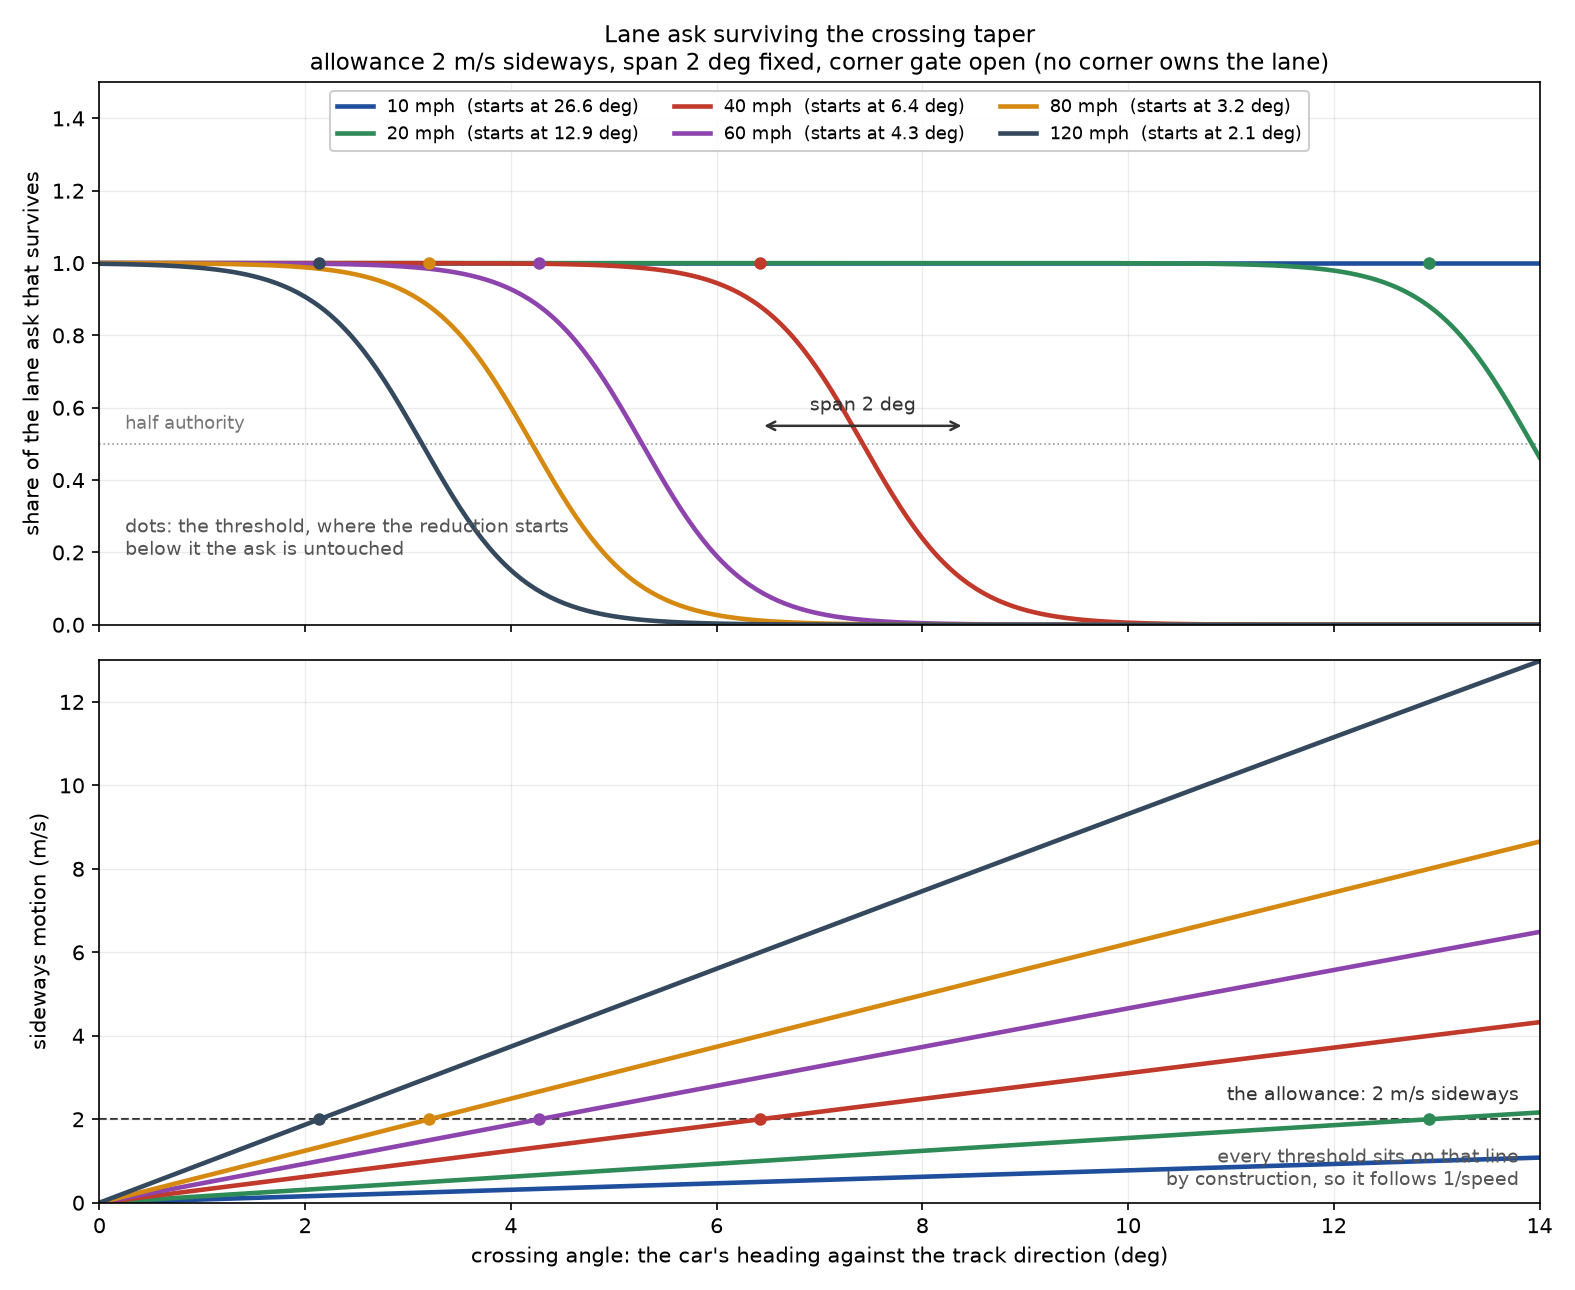
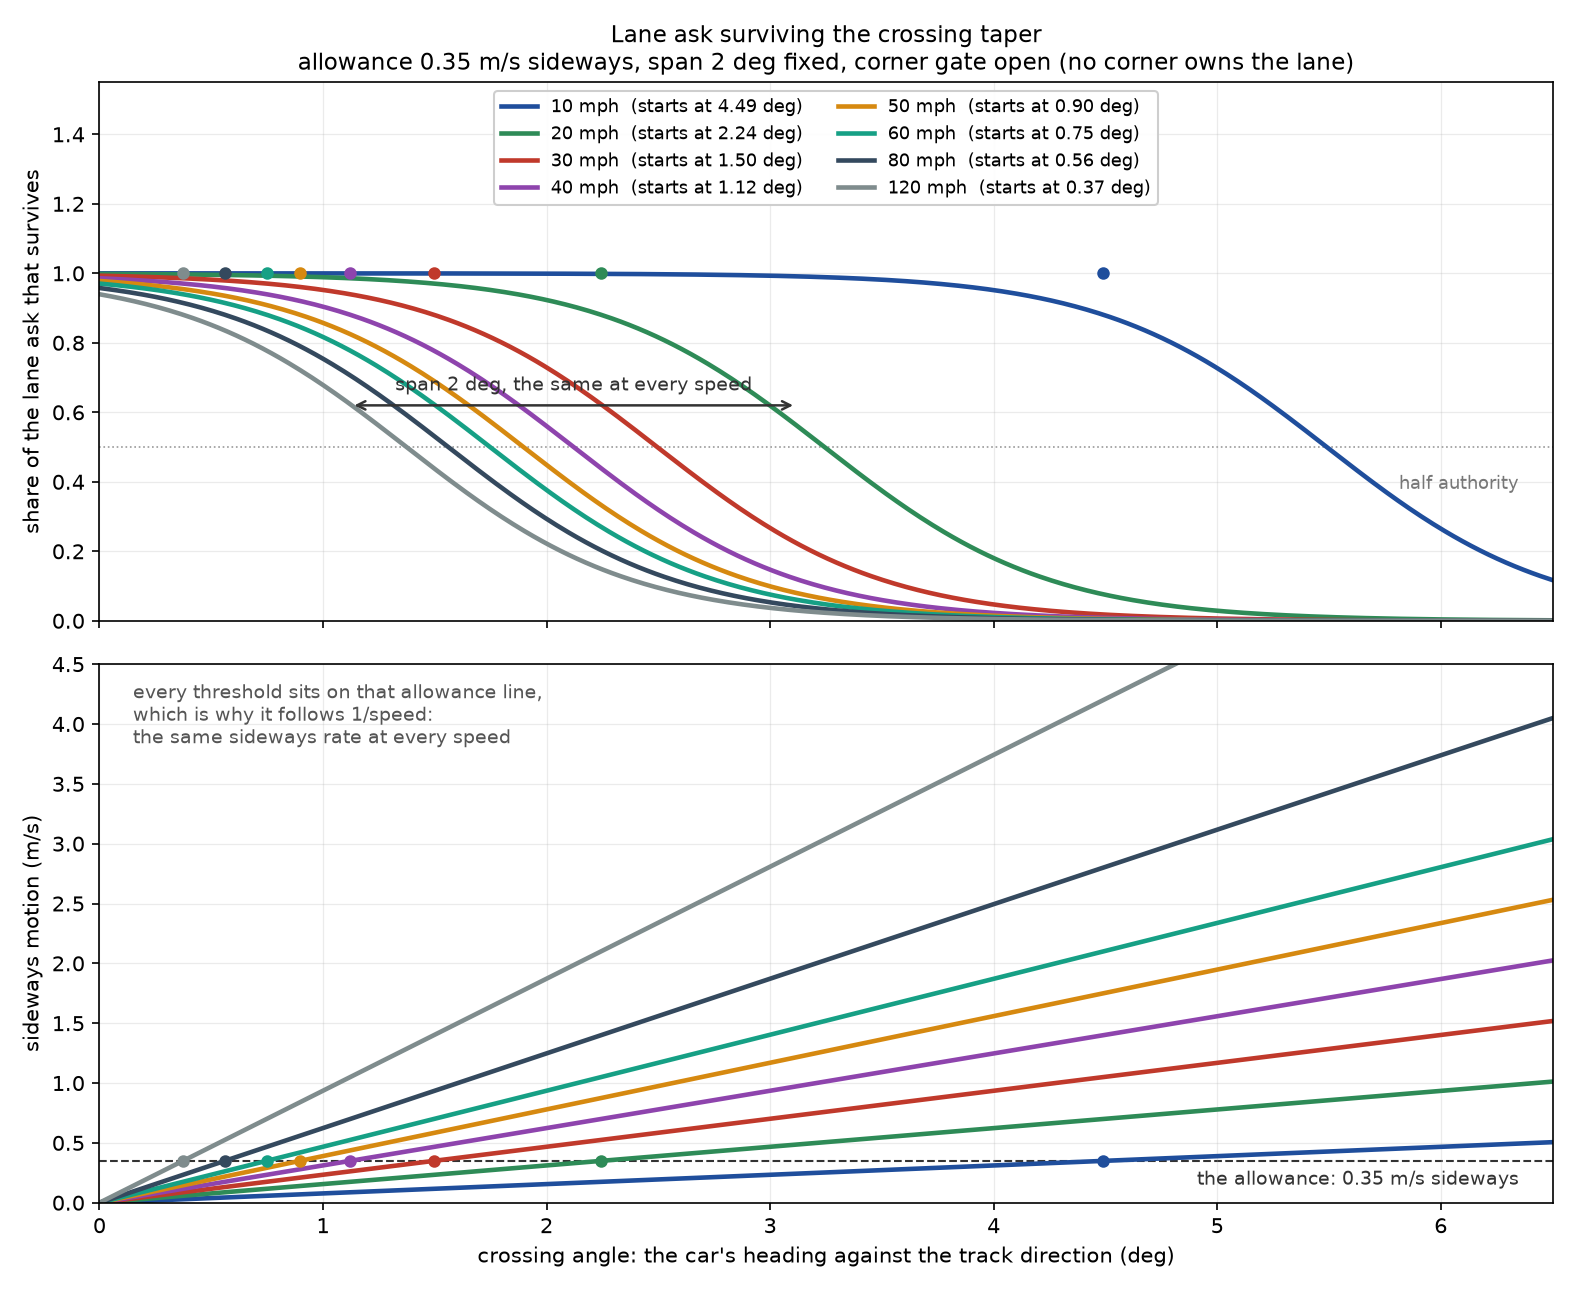
Crossing allowance down to 0.35 m/s, so 50 mph starts reducing below one degree
Swerving toward the lane at 60 mph survived the last setting because the threshold there was
4.3 degrees of crossing: the reduction only began long after the car had turned in. At 0.35 m/s
sideways the threshold is 0.90 degrees at 50 mph, 0.75 at 60 and 0.37 at 120, with the floor two
degrees later and half authority half way between. Lane work at speed is now dominated by the
taper, which is the intent; the span is the lever that leaves a car room to cross once the
threshold has collapsed, and the allowance for a start at exactly 1.00 degree at 50 mph is
0.390 m/s.

docs/lane-crossing-taper.py and its png carry the curve and the table.

Compile-verified only; the crossing-taper section of TEST-PLAN.md carries the drive.

diff --git a/docs/lane-crossing-taper.py b/docs/lane-crossing-taper.py
@@ -8,7 +8,8 @@ taper is skipped while the corner line owns the lane; every curve here is the no
 
 The threshold is the heading that carries the car sideways at the lateral allowance, so it is
 `1/speed` by construction; the span is fixed, which is what holds the wheel up once speed has
-collapsed the threshold. Below the threshold the same expression is ~1, so there is no branch.
+collapsed the threshold. Below the threshold the same expression is ~1, so there is no branch,
+and each dot sits on the untouched line at that speed's start.
 
 Top panel: how much of the lane ask survives at a given crossing angle (the car's heading
 against the track direction). Bottom panel: the same angles read as sideways motion, where
@@ -23,13 +24,14 @@ matplotlib.use("Agg")
 import matplotlib.pyplot as plt
 import numpy as np
 
-LATERAL_MPS = 2.0  # LaneCrossingLateralSpeedMps
-SPAN_DEG = 2.0     # LaneCrossingTaperSpanDegrees
+LATERAL_MPS = 0.35  # LaneCrossingLateralSpeedMps
+SPAN_DEG = 2.0      # LaneCrossingTaperSpanDegrees
 MPH = 0.44704
-SPEEDS = [10, 20, 40, 60, 80, 120]
-COLOURS = ["#1f4e9c", "#2e8b57", "#c0392b", "#8e44ad", "#d68910", "#34495e"]
-
-TOP_LIMIT = 1.5
+SPEEDS = [10, 20, 30, 40, 50, 60, 80, 120]
+COLOURS = ["#1f4e9c", "#2e8b57", "#c0392b", "#8e44ad", "#d68910", "#16a085", "#34495e", "#7f8c8d"]
+X_MAX = 6.5
+TOP_LIMIT = 1.55
+BOTTOM_LIMIT = 4.5
 
 
 def threshold_deg(speed_mph):
@@ -43,38 +45,37 @@ def share(crossing_deg, speed_mph):
     return 0.5 * (1.0 - np.tanh((crossing_deg - t - half) / half))
 
 
-crossings = np.linspace(0.0, 14.0, 400)
+crossings = np.linspace(0.0, X_MAX, 500)
 
 fig, (top, bottom) = plt.subplots(2, 1, sharex=True, figsize=(10.5, 8.6), dpi=150)
 
 for mph, colour in zip(SPEEDS, COLOURS):
     t = threshold_deg(mph)
-    top.plot(crossings, share(crossings, mph), "-", color=colour, linewidth=2.2, label=f"{mph} mph  (starts at {t:.1f} deg)")
+    top.plot(crossings, share(crossings, mph), "-", color=colour, linewidth=2.2, label=f"{mph} mph  (starts at {t:.2f} deg)")
     top.plot([t], [1.0], "o", color=colour, markersize=5)
     bottom.plot(crossings, (mph * MPH) * np.sin(np.radians(crossings)), "-", color=colour, linewidth=2.2, label=f"{mph} mph")
     bottom.plot([t], [LATERAL_MPS], "o", color=colour, markersize=5)
 
 t40 = threshold_deg(40)
-top.annotate("", xy=(t40, 0.55), xytext=(t40 + SPAN_DEG, 0.55), arrowprops=dict(arrowstyle="<->", color="#333333", linewidth=1.2))
-top.text(t40 + SPAN_DEG / 2.0, 0.58, f"span {SPAN_DEG:.0f} deg", ha="center", va="bottom", fontsize=9, color="#333333")
+top.annotate("", xy=(t40, 0.62), xytext=(t40 + SPAN_DEG, 0.62), arrowprops=dict(arrowstyle="<->", color="#333333", linewidth=1.2))
+top.text(t40 + SPAN_DEG / 2.0, 0.65, f"span {SPAN_DEG:.0f} deg, the same at every speed", ha="center", va="bottom", fontsize=9, color="#333333")
 top.axhline(0.5, color="#999999", linewidth=0.8, linestyle=":", zorder=0)
-top.text(0.25, 0.53, "half authority", ha="left", va="bottom", fontsize=8.5, color="#777777")
-top.text(0.25, 0.30, "dots: the threshold, where the reduction starts\nbelow it the ask is untouched", fontsize=9, color="#555555", va="top")
+top.text(X_MAX - 0.15, 0.42, "half authority", ha="right", va="top", fontsize=8.5, color="#777777")
 top.set_ylim(0.0, TOP_LIMIT)
 top.set_ylabel("share of the lane ask that survives")
 top.set_title(
     "Lane ask surviving the crossing taper\n"
-    f"allowance {LATERAL_MPS:.0f} m/s sideways, span {SPAN_DEG:.0f} deg fixed, corner gate open (no corner owns the lane)",
+    f"allowance {LATERAL_MPS:.2f} m/s sideways, span {SPAN_DEG:.0f} deg fixed, corner gate open (no corner owns the lane)",
     fontsize=11,
 )
 top.grid(alpha=0.25, linewidth=0.6)
-top.legend(loc="upper center", ncol=3, fontsize=8.5, framealpha=0.95)
+top.legend(loc="upper center", ncol=2, fontsize=8.5, framealpha=0.95)
 
 bottom.axhline(LATERAL_MPS, color="#333333", linewidth=1.0, linestyle="--", zorder=0)
-bottom.text(13.8, LATERAL_MPS + 0.35, f"the allowance: {LATERAL_MPS:.0f} m/s sideways", ha="right", va="bottom", fontsize=9, color="#333333")
-bottom.text(13.8, 1.35, "every threshold sits on that line\nby construction, so it follows 1/speed", ha="right", va="top", fontsize=9, color="#555555")
-bottom.set_ylim(0.0, 13.0)
-bottom.set_xlim(0.0, 14.0)
+bottom.text(X_MAX - 0.15, LATERAL_MPS - 0.08, f"the allowance: {LATERAL_MPS:.2f} m/s sideways", ha="right", va="top", fontsize=9, color="#333333")
+bottom.text(0.15, BOTTOM_LIMIT - 0.15, "every threshold sits on that allowance line,\nwhich is why it follows 1/speed:\nthe same sideways rate at every speed", ha="left", va="top", fontsize=9, color="#555555")
+bottom.set_ylim(0.0, BOTTOM_LIMIT)
+bottom.set_xlim(0.0, X_MAX)
 bottom.set_xlabel("crossing angle: the car's heading against the track direction (deg)")
 bottom.set_ylabel("sideways motion (m/s)")
 bottom.grid(alpha=0.25, linewidth=0.6)
@@ -86,3 +87,4 @@ print(f"{'mph':>5} {'threshold':>10} {'half':>7} {'spent':>7}   (deg of crossing
 for mph in SPEEDS:
     t = threshold_deg(mph)
     print(f"{mph:>5} {t:>10.2f} {t + SPAN_DEG / 2.0:>7.2f} {t + SPAN_DEG:>7.2f}")
+print(f"\n50 mph starts at exactly 1.00 deg on {22.352 * math.sin(math.radians(1.0)):.3f} m/s sideways")

diff --git a/src/Racer.cs b/src/Racer.cs
@@ -729,7 +729,7 @@ namespace ARS
         // there is the taper, whose width is fixed rather than tied to the threshold. A car crossed past the
         // threshold loses lane authority smoothly rather than at a stroke — a hard ceiling flattens the law into a
         // constant-command phase that builds lateral velocity the short tail cannot shed.
-        const float LaneCrossingLateralSpeedMps = 2f;
+        const float LaneCrossingLateralSpeedMps = 0.35f;
         const float LaneCrossingTaperSpanDegrees = 2f;
 
         static float LaneCrossingThresholdDegrees(float speedMps)
